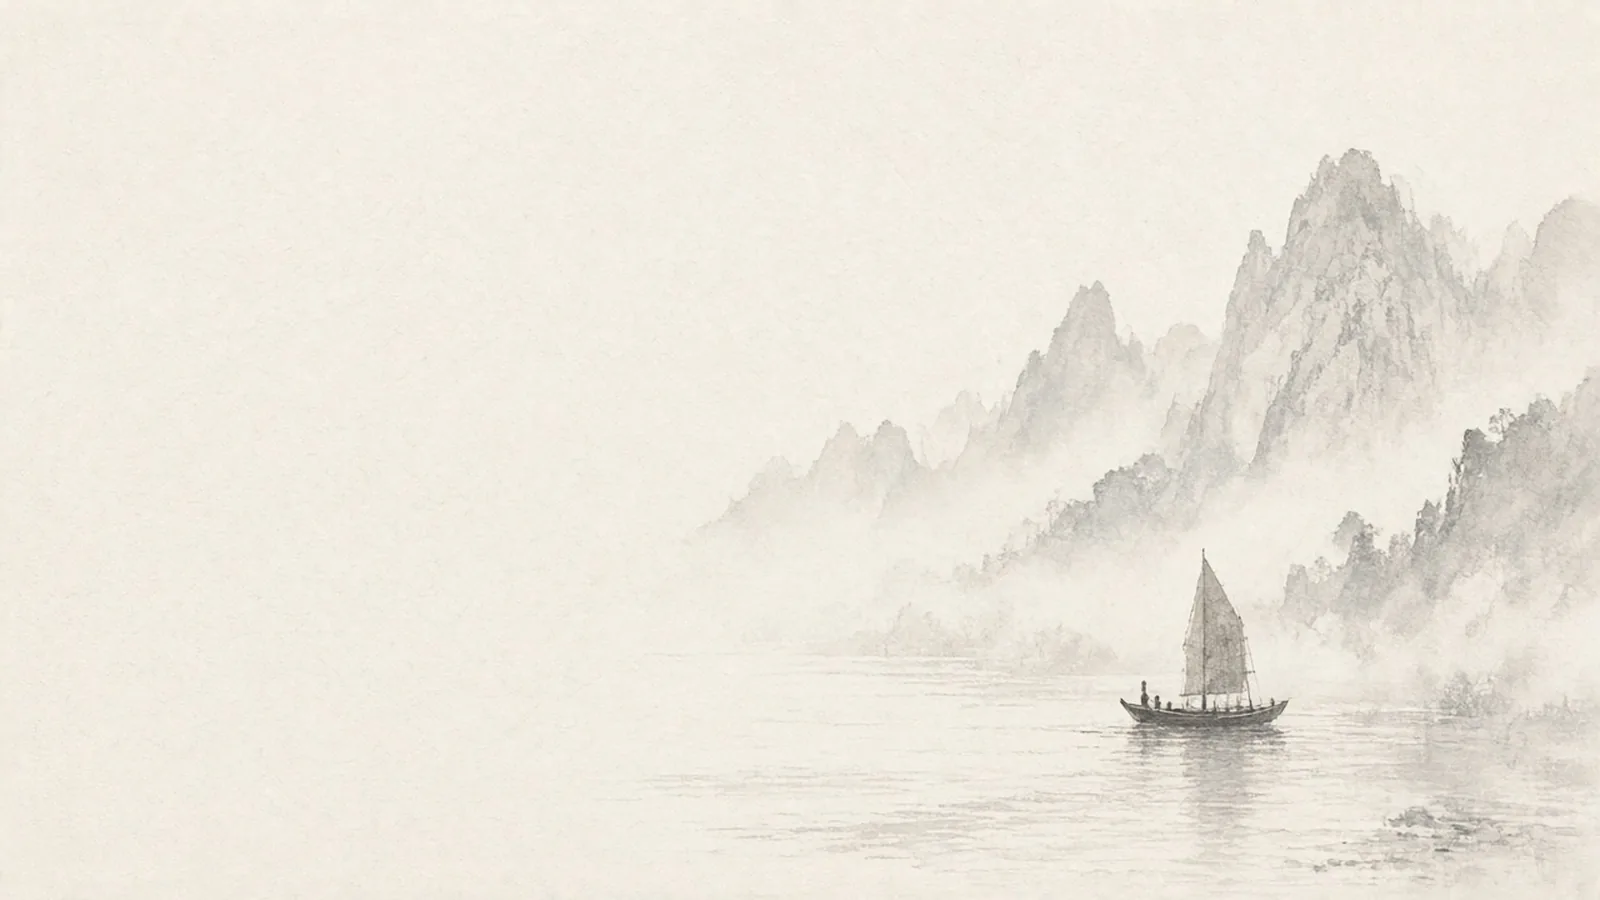
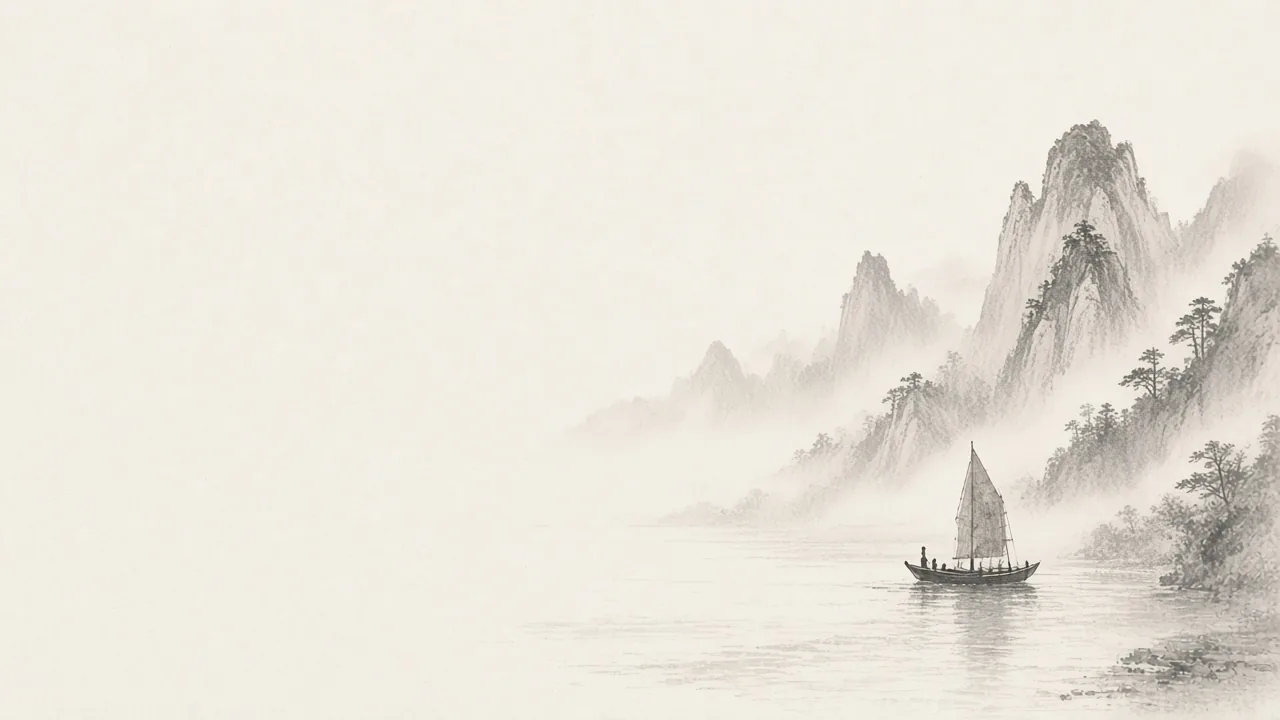
feat(ui): 焕新三套主题首页背景图（水墨/海岸/像素）

diff --git a/js/changelog.js b/js/changelog.js
@@ -2,6 +2,8 @@
  *  改完运行 node tools/build-daily.js 重新生成 daily.json。 */
 (function (global) {
   global.QUEST_CHANGELOG = [
+    { id: 54, date: '2026-10-28', title: '三套主题首页背景图焕新：水墨 / 海岸 / 像素', tag: '改进', href: '#home',
+      items: ['首页首屏背景按「水墨纸 / 海岸青 / 像素暖沙」重新绘制，左侧留白给标题，右侧放景', '顶栏「换风格」可切换；强刷或等 SW v28 生效后可见'] },
     { id: 53, date: '2026-10-27', title: '平台变现详情改为大弹窗：列表只留摘要', tag: '改进', href: '#pm-cn-media',
       items: ['平台卡不再「展开：分成规则…」折叠；短卡只留变现方式/门槛（海外含大陆可用性）与「查看详情」', '详情弹窗对齐赚钱榜大尺寸：分成规则、实操步骤路线图、适合谁、红线、来源；对比表深链 #pm-<分类>/<id> 直接打开弹窗'] },
     { id: 52, date: '2026-10-27', title: '新增「Agent 赚钱」榜：用 Agent 合法进账的可执行方案', tag: '新功能', href: '#war-rank-agent',

diff --git a/sw.js b/sw.js
@@ -6,7 +6,7 @@
  * 图片和字体走缓存优先。只缓存同源 GET 且 status === 200 的响应。
  * 新版本 install 后自动 skipWaiting；页面在 controllerchange 时刷新一次。
  * 仍接受页面 postMessage {type:'SKIP_WAITING'}。 */
-const CACHE_VERSION = 27;
+const CACHE_VERSION = 28;
 const CACHE_NAME = 'gefei-quest-v' + CACHE_VERSION;
 
 const PRECACHE = [
